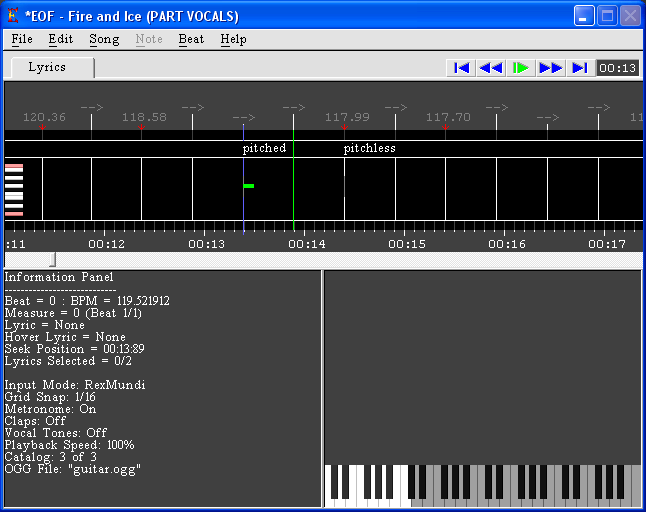
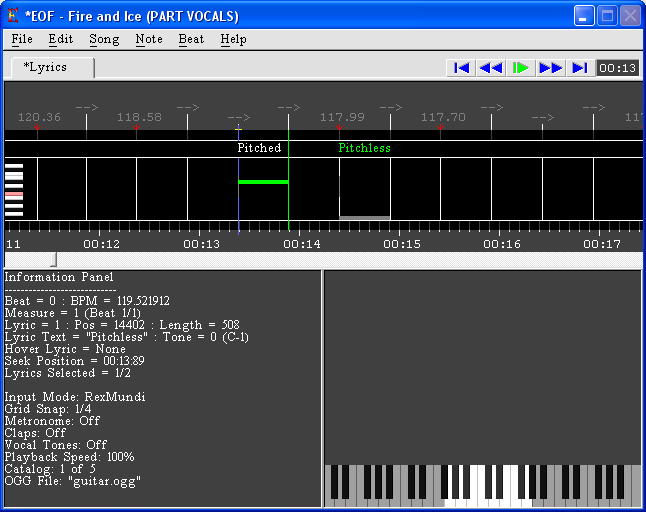
Lots of updates to the vocal charting tutorial.  This covers new lyric manipulation features in EOF and the recently implemented Import Lyric functionality.

diff --git a/bin/vocaltutorial/index.htm b/bin/vocaltutorial/index.htm
@@ -11,7 +11,7 @@ p {text-indent: 1cm}
 <center>A song editor for "Frets On Fire"</center><br>
 
 <h1><a name="tutorial">Vocal Tutorial</a></h1>
-[ <a href="index.htm#intro">Introduction</a> ] [ <a href="index.htm#addinglyrics">Manipulating lyrics</a> ] [ <a href="index.htm#testing1">Testing and editing lyric pitches</a> ] [ <a href="index.htm#refocus">Using the full range of pitches</a> ] [ <a href="index.htm#intermediate">Intermediate vocal charting topics</a> ] [ <a href="index.htm#testing2">Testing</a> ] [ <a href="index.htm#advanced">Advanced topics</a> ]<br><br>
+[ <a href="index.htm#intro">Introduction</a> ] [ <a href="index.htm#addinglyrics">Manipulating lyrics</a> ] [ <a href="index.htm#testing1">Testing and editing lyric pitches</a> ] [ <a href="index.htm#refocus">Using the full range of pitches</a> ] [ <a href="index.htm#intermediate">Intermediate vocal charting topics</a> ] [ <a href="index.htm#import">Lyric import</a> ] [ <a href="index.htm#testing2">Testing</a> ] [ <a href="index.htm#advanced">Advanced topics</a> ]<br><br>
 
 <h1><a name="intro">Introduction</a></h1>
 Charting vocals in EOF begins like any other chart work, you can create a new chart or open an existing chart.  Change to PART VOCALS:<br>
@@ -27,19 +27,19 @@ Vocal notes are placed similarly to instrument notes:  You move the mouse's vert
 
 You can either type the lyric in now or just click OK (or hit Enter) to leave it blank, but if you forget to enter it later, that particular pitch might not work correctly in FoF when you play the chart.  Just as with notes in instrument tracks, the Grid Snap feature allows you to place your lyrics on partial measure intervals.  As always, beat syncing the chart (**LINK TO MAIN CHARTING TUTORIAL REGARDING BEAT SYNCING) before placing lyrics is strongly recommended, as the Grid Snap feature can then be used with a great deal of accuracy.  If you haven't beat synced the chart, using the Grid Snap will be of limited value, except for setting how much the selected lyric's duration changes when you use the scroll wheel or the [ and ] keys.<br><br>
 
-A word of caution:  If you move beat markers while placing lyrics, be aware that the "Auto Adjust" feature will move the positions of lyrics for the affected beats, which EOF's behavior by design.  This is another reason to beat sync your chart before placing lyrics and notes, but if you have "Auto Adjust" enabled and want to prevent the notes and lyrics that fall within the beats affected when clicking and dragging a beat marker, hold the SHIFT key before clicking and dragging it.  If you do NOT have "Auto Adjust" enabled, holding SHIFT when clicking and dragging a beat marker will cause the notes to adjust, so make sure you know whether "Auto Adjust" is enabled by checking File>Preferences.<br><br>
+A word of caution:  If you move beat markers while placing lyrics, be aware that the "Auto Adjust" feature will move the positions of lyrics for the affected beats, which is EOF's behavior by design.  This is another reason to beat sync your chart before placing lyrics and notes, but if you have "Auto Adjust" enabled and want to prevent the notes and lyrics that fall within the beats from being affected when clicking and dragging a beat marker, hold the SHIFT key before clicking and dragging it.  If you do NOT have "Auto Adjust" enabled, holding SHIFT when clicking and dragging a beat marker will cause the notes to adjust, so make sure you know whether "Auto Adjust" is enabled by checking File>Preferences.<br><br>
 
 A lyric can be created without defining its pitch by positioning the mouse above the top-most key of the Mini Piano, such as in the lyric display area at the top of the piano roll area, when you place the lyric.  If you place a lyric here, EOF will skip saving a pitch for the lyric and just ask you to specify the lyric text.  The resulting lyric will have the text but no pitch, and during save, the MIDI will be created to reflect this:
 <center><IMG SRC="voximage5.png" ALT="screen" BORDER=0 HSPACE=0 VSPACE=3><br></center>
-If you define a lyric without a pitch, you can set the pitch later (See the <a href="index.htm#testing1">"Testing and editing lyric pitches"</a> section below).  You can play a chart in FoF with one or more pitch-less lyrics, and they should show work as scrolling lyrics, but they may or may not be scored correctly when the vocal track is being played.  If you want to change a lyric's text after it has been defined, you can select the lyric and either press the L key or use the "Edit Lyric" function in the Note menu.  As more lyrics are placed, you may find that it becomes difficult to work in the default zoom level of 1/10, as some lyrics are feasibly going to be long enough to appear to overlap:<br>
+If you define a lyric without a pitch, EOF will display the lyric's position in gray instead of green or red, and you can set the pitch later (See the <a href="index.htm#testing1">"Testing and editing lyric pitches"</a> section below).  You can play a chart in FoF with one or more pitch-less lyrics, and they should show work as scrolling lyrics, but they may or may not be scored correctly when the vocal track is being played.  If you want to change a lyric's text after it has been defined, you can select the lyric and either press the L key or use the "Edit Lyric" function in the Note menu.  As more lyrics are placed, you may find that it becomes difficult to work in the default zoom level of 1/10, as some lyrics are feasibly going to be long enough to appear to overlap, especially if you are using EOF's default window size of 640x480:<br>
 <center><IMG SRC="voximage3.png" ALT="screen" BORDER=0 HSPACE=0 VSPACE=3><bR><br></center>
 
-To remedy this, simply zoom in by either pressing the + key on the numpad, or by opening the Edit menu, selecting Zoom and selecting a zoom level.  The - key on the numpad can be used to zoom back out:<br>
+To remedy this, simply increase EOF's window size by opening the File menu, selecting Display, selecting a larger window size and clicking OK.  Or if you prefer, you can zoom in on the chart by either pressing the + key on the numpad, or by opening the Edit menu, selecting Zoom and selecting a zoom level.  The - key on the numpad can be used to zoom back out:<br>
 <center><IMG SRC="voximage4.png" ALT="screen" BORDER=0 HSPACE=0 VSPACE=3><bR><br></center>
 
 Even if you use Grid Snap to place lyrics on a beat synced chart, you need to check to see if minor timing changes as necessary.  As such, you can use the Clap feature during playback in PART VOCALS to see if the timing is accurate.  If adjustment is needed, simply click and drag one or more notes left or right.  EOF will preserve the lyrics' pitches when you move them.  Multiple lyrics can be selected at a time (and subsequently moved) by using using the same CTRL+click, SHIFT+click, etc. methods available when charting instrument tracks.<br><br>
 
-Besides ensuring that the lyric pitches and start times are accurate, it's also important to ensure that they are the correct length.  FoF will expect the player to sing a lyric's pitch for as long as the chart specifies in order to receive a perfect score for the lyric.  A selected lyric's duration can be modified just the same as with instrument notes:  With the scroll wheel or [ and ] keys.  Changing the Grid Snap setting to smaller fractions (such as 1/48) will allow you to adjust the lyric durations in smaller increments.  Harmonix documentation recommends that consonants at the beginning or end of a lyric not be included in the lyric's duration.  For example, for the word "changes", you might have the pitch for the first syllable ("chan") start just after the "ch" sound to begin with the long A vowel sound, and you might ensure that the pitch duration for the second syllable ("ges") ends just before the S sound is enunciated.  This is to make the scoring more accurate for the way people naturally sing, where a word's beginning and ending consonant sounds aren't always sung with a particular pitch in the way that vowel sounds are.  Harmonix notes that some exceptions may apply, such as if the consonant is to be sung loud and with a long duration.  Just make sure to play test the vocal chart to make sure the scoring seems reasonable.<br><br>
+Besides ensuring that the lyric pitches and start times are accurate, it's also important to ensure that they are the correct length.  FoF will expect the player to sing a lyric's pitch for as long as the chart specifies in order to receive a perfect score for the lyric.  A selected lyric's duration can be modified just the same as with instrument notes:  With the scroll wheel or [ and ] keys.  Changing the Grid Snap setting to smaller fractions (such as 1/48) will allow you to adjust the lyric durations in smaller beat based-increments.  If you prefer to have more independent control over a lyric's duration, you can turn Grid Snap off.  When Grid Snap is off, using the scroll wheel or [ and ] keys changes the duration in increments of 100ms.  If you hold the CTRL key down while changing the duration this way, the duration is instead changed in increments of 10ms, allowing for very high resolution adjustments.  Harmonix documentation recommends that consonants at the beginning or end of a lyric not be included in the lyric's duration.  For example, for the word "changes", you might have the pitch for the first syllable ("chan") start just after the "ch" sound to begin with the long A vowel sound, and you might ensure that the pitch duration for the second syllable ("ges") ends just before the S sound is enunciated.  This is to make the scoring more accurate for the way people naturally sing, where a word's beginning and ending consonant sounds aren't always sung with a particular pitch in the way that vowel sounds are.  Harmonix notes that some exceptions may apply, such as if the consonant is to be sung loud and with a long duration.  Just make sure to play test the vocal chart to make sure the scoring seems reasonable.<br><br>
 
 When lyrics repeat (typical of a song's chorus), you can save yourself some time by copying a selection of lyrics and pasting them elsewhere in the chart.  As always, be sure to double check the pasted lyrics to see if any corrections need to be made.  See the section <a href="index.htm#testing1">"Testing and editing lyric pitches"</a> below for more information.  One thing to note is that EOF maintains a separate clipboard for lyrics than the one it uses for instrument notes.  So while you can copy lyrics from one EOF window to PART VOCALS in another EOF window, you cannot copy lyrics to an instrument track such as PART GUITAR.  If you would like to keep several selections of lyrics available for pasting, you can use the Fret Catalog to store lyrics similarly to how you can use it to store selections of notes from instrument tracks.  To add lyrics to the Fret Catalog, select some lyrics (such as the first line of the song's chorus), open the Song Menu, select Catalog and select Add.  You can toggle on or off the showing of the Fret Catalog on top of the Information Panel by either pressing the Q key, or by opening the Song menu, selecting Catalog and selecting Show.  The Previous/Next controls in the same menu, the previous/next buttons in the fret catalog or the W and E keys will allow you to change the active catalog entry if you have more than one catalog entry defined.  You can play the currently displayed catalog entry by clicking the play button in the Catalog Entry panel or by pressing SHIFT+Spacebar.  You can paste the lyrics from the current catalog entry to the current seek position in the chart by opening the Edit menu, selecting Paste From and selecting Catalog.<br><br>
 
@@ -50,7 +50,14 @@ So now that you've placed some lyric notes, you may be wondering how to easily t
 
 When Vocal Tones are enabled, there are multiple ways you can play back the tones of the defined lyrics.  First, you can simply left click on the lyric to hear its tone.  If the lyric has no defined pitch, or if Vocal Tones are not enabled, you will not hear a tone when you click on the lyric.  Second, you can press Play or Spacebar to play back the chart, and the tones will sound during playback each time a lyric with a pitch is reached.  If you choose to do so, you can even use Vocal Tones in combination with the metronome and/or note clapping.<br><br>
 
-To change a lyric's pitch without deleting and redefining it, select one or more lyrics and use the Up or Down arrow keys to move the lyric(s) up or down one note at a time.  If you hold the CTRL button while pressing Up or Down, the selected Lyric(s) will move up or down by an entire octave (12 notes) instead of just one note.  Or, you can move the mouse over the lyric until it highlights GREEN (this is referred to as hovering over the lyric), moving the mouse up or down to the desired pitch and placing the note over the existing lyric.  The original lyric text will be kept, but the new pitch specified will be saved.  If Vocal Tones are enabled, EOF will play the new pitch of the lyric each time the pitch is changed.  If you have altered the pitch of multiple notes at once, the tone will sound for the last lyric that was clicked on instead of playing the tones for all selected lyrics at once.<br><br>
+You can change a lyric's pitch without deleting and redefining its text with these methods:<br>
+<ul>
+<li>Pressing the Up or Down arrow keys to move the selected lyric(s) up or down one note at a time.
+<li>Hold the CTRL button and press the Up or Down arrow keys to move the selected Lyric(s) up or down one octave (12 notes) at a time.
+<li>Move the mouse left/right over the piano roll area until it crosses over the lyric, which will highlight in GREEN (this is referred to as hovering over the lyric).  Move the mouse up or down to the desired pitch and place the note over the existing lyric.  The original lyric text will be kept, but the new pitch specified will be saved.  If you use this method to place the same pitch that the lyric already has, EOF will instead remove the pitch, leaving the lyric text.  In order to show that the lyric still exists but is missing a pitch, EOF will draw a gray bar over the bottom of the piano roll to show its start and stop position.
+<li>Select one lyric, hold the CTRL button and left click a key on the full piano.  The pitch will change to the pitch of the key you played.
+</ul>
+If Vocal Tones are enabled, EOF will play the new pitch of the lyric each time the pitch is changed.  If you have altered the pitch of multiple notes at once, the tone will sound for the last lyric that was clicked on instead of playing the tones for all selected lyrics at once.<br><br>
 
 A new playback feature in EOF allows you to select a group of notes, press and hold the S key and press the Play button or Spacebar.  This will cause playback for just the selected notes and will automatically rewind the chart to the first of the selected notes.  This method of playback is similar to the playback of a catalog entry, but adds convenience in that you don't have to add a set of notes to the Fret Catalog just to be able to play them back multiple times during testing.  You can also use this playback feature to play back a selection of lyrics with Vocal Tones, which is an ideal way to check multiple pitches, such as when listening to some or all of a line of lyrics repeatedly to ensure all the pitches are accurate.  Likewise, Vocal Tones will play back for a fret catalog entry.  Use the play selection and play catalog entry features to your advantage to create an excellent vocal chart.<br><br>
 
@@ -95,11 +102,44 @@ Regarding partial words, the correct way to chart vocals for a word that has mul
 
 Partial words lyrics ending in a hyphen will not display in-game with a hyphen.  For a partial word lyric where it is intended for the hyphen to be visible, the partial word lyric should end in an equal sign instead.  For example:  The lyrics "X-" "ray" may be displayed in-game as "Xray" while the lyrics "X=" "ray" should be displayed as "X-ray".  Other than having the hyphen made visible, the equal sign's behavior regarding vocal charting is the exact same as that of the hyphen.<br><br>
 
-When a single syllable is sung and the singer changes pitch while still singing the same syllable of the same word, it is called a pitch shift.  In this case, you define the shift with the lyric text of "+" (without quote marks) and the appropriate pitch.  Generally, the lyric preceding the shift should extend all the way up to where the + lyric is placed.  For example, if a chart has the player sing "I" in the pitch of C4 and then (without stopping to change syllables) changes the pitch to E4, you would define the first lyric as "I" with pitch C4, and then when the singer's voice has finished shifting up to the higher note, define the second lyric as "+" with pitch E4.  Make sure not to use a hyphen on the end of the lyric that precedes the "+" lyric, it is implied that it pertains to the same syllable, and the lyric text should be automatically displayed correctly in-game.  If there is a partial word lyric that continues the current word AFTER a pitch shift, put a hyphen at the end of the "+" lyric.  So the lyric "away", if it contained a pitch shift on the first syllable, should be charted as three separate lyrics:  "a", "+-" and "way".<br><br>
+When a single syllable is sung and the singer changes pitch while still singing the same syllable of the same word, it is called a pitch shift.  In this case, you define the shift with the lyric text of "+" (without quote marks) and the appropriate pitch.  Generally, the lyric preceding the shift should extend all the way up to where the + lyric is placed.  For example, if a chart has the player sing "I" in the pitch of C4 and then (without stopping to change syllables) changes the pitch to E4, you would define the first lyric as "I" with pitch C4, and then when the singer's voice has finished shifting up to the higher note, define the second lyric as "+" with pitch E4.  Make sure not to use a hyphen on the end of the lyric that precedes the "+" lyric, it is implied that it pertains to the same syllable, and the lyric text should be automatically displayed correctly in-game.  If there is a partial word lyric that continues the current word AFTER a pitch shift, put a hyphen at the end of the "+" lyric.  So the lyric "away", if it contained a pitch shift on the first syllable, should be charted as three separate lyrics:  "a", "+-" and "way".  When you mark a lyric phrase, EOF will display the lyric phrase's preview with the correct spacing logic so you can determine if you need to add any hyphens:<br>
+<center><IMG SRC="voximage9.png" ALT="screen" BORDER=0 HSPACE=0 VSPACE=3><br></center>
 
 A freestyle lyric is one that contains a pound sign (#) or a circumflex (^) on the end.  While it is generally considered normal to still define a pitch for a freestyle lyric, it might not be necessary to do so for it to work as intended in FoF.  When lyrics are freestyle, the game only requires the user to speak/sing at the correct time and does not score based on the pitch that is sung.  This is typical for parts of a song that are screaming, talking or rapping.  One catch is that for partial words that are freestyle, the hyphen should come before the freestyle character.  For example, you could chart the lyrics "Sa-#" "bo-#" "tage#" and the player can sing the lyrics in any pitch.  The game should score it as being accurate as long as the syllables were spoken at the right times for the right durations.  "^" is used in the exact same way as "#", except that Harmonix indicates this is used to create a freestyle lyric that has more relaxed scoring, making it easier to score it correctly in-game.  It's not known whether FoF makes a distinction between the two different freestyle characters.<br><br>
 
 If your chart has a Big Rock Ending (often referred to as BRE) in the instrument track(s), then the behavior of the game (according to Harmonix) stops scoring the vocal track when the Big Rock Ending is reached.  I'm uncertain if FoF follows this behavior, but if lyrics that show up in the middle of a big rock ending don't appear or don't get scored when you play the chart, this is probably why.<br><br>
+
+
+
+<h1><a name="import">Lyric import</a></h1>
+If you want to import lyrics into the chart that is currently open, you can access the newly-integrated lyric import feature by opening the File menu and selecting "Import Lyrics".  This will load lyrics from the specified file, replacing the lyrics that are defined in PART VOCALS.  If the file you select only has one set of lyrics (ie. Script format), the import will complete without any further interaction:
+<center><IMG SRC="voximage10.png" ALT="screen" BORDER=0 HSPACE=0 VSPACE=3><br></center>
+
+In the above example, I imported a VL file.  This format contains no pitch information, so the lyric positions are indicated in gray.  Imports for much more complicated files are supported, even when they contain multiple sets of lyrics.  Take one of the MIDIs from The Beatles: Rock Band for example:
+<center><IMG SRC="voximage11.png" ALT="screen" BORDER=0 HSPACE=0 VSPACE=3><br></center>
+
+EOF will import lyrics from the regular vocal track (PART VOCALS) automatically, but using "Import Lyrics" shows that there are several harmony vocal tracks defined in the MIDI, each of them able to be different than the others:
+<center><IMG SRC="voximage12.png" ALT="screen" BORDER=0 HSPACE=0 VSPACE=3><br></center>
+
+The number of lyrics reported for each track in the "Select track to import" window is an estimate.  There is additional cleanup logic that is performed during the actual import process, which may cause the number of lyrics imported to be slightly different.  Here's what the second harmony track "PART HARM2" looks like:
+<center><IMG SRC="voximage13.png" ALT="screen" BORDER=0 HSPACE=0 VSPACE=3><br></center>
+
+Notice that the harmony track doesn't have the same number of lyrics.  If you try to import a file that does not contain a support lyric format, you will receive this message:<br>
+<center><IMG SRC="voximage14.png" ALT="screen" BORDER=0 HSPACE=0 VSPACE=3><br></center>
+
+and the import is canceled.  As of this revision of the vocal charting tutorial, The following import formats are supported:<br>
+<ul>
+<li>Frets on Fire Script (script.txt)
+<li>VividLyrics
+<li>Rock Band / Guitar Hero MIDI
+<li>UltraStar
+<li>LRC
+<li>Extended LRC
+<li>KAR
+<li>Pitched Lyrics (will prompt for a Vocal Rhythm MIDI file)
+<li>Soft Karaoke
+</ul>
+For details about the different lyric formats supported, please consult the FoFLyricConverter readme.txt file (See the <a href="index.htm#advanced">"Advanced topics"</a> section below) for more details.<br><br>
 
 
 
@@ -113,11 +153,15 @@ Besides testing in FoFiX, you might even consider testing your vocal charts in t
 
 
 <h1><a name="advanced">Advanced topics</a></h1>
-If you are already familiar with charting in another lyric editor, such as VividLyrics editor or a song editor for the UltraStar series of games, you might prefer to do some of your vocal charting in that program, and then bring the chart into EOF to polish it up for final release.  The FoFLyricConverter is a program being developed separately from EOF, and currently there are plans to integrate the two projects.  Until the integration is complete, you can use FoFLyricConverter as command line program having rather large list of command parameters.  The benefit is that you can convert many different formats of lyrics into the appropriate MIDI format that can be imported into EOF.  You could also convert your vocal chart's lyrics into another format to share with another community (such as the UltraStar community for sharing and receiving feedback) or for testing.  To find out more about this program, visit the program's impromptu project site on the FoF-FF forum:<br>
-<a href=http://www.fretsonfire.net/forums/viewtopic.php?f=11&t=31765>http://www.fretsonfire.net/forums/viewtopic.php?f=11&t=31765</a><br><br>
+If you are already familiar with charting in another lyric editor, such as VividLyrics editor or a song editor for the UltraStar series of games, you might prefer to do some of your vocal charting in that program, and then bring the chart into EOF to polish it up for final release.  The FoFLyricConverter is a program being developed separately from EOF.  Work has begun to integrate the two projects, providing EOF with support for importing many types of lyric formats.  Until integration matures, you can use FoFLyricConverter as command line program to have the most granular control over lyric conversions, using a large list of parameters.  The benefit is that you can influence filtered characters, hyphens, lyric spacing and even the timings of the lyrics as needed before merging them with your EOF chart.  You could also convert your vocal chart's lyrics into another format to share with another community (such as the UltraStar community for sharing and receiving feedback) or for testing.  To find out more about this program, visit the program's impromptu project site on the FoF-FF forum:<br>
+<a href=http://www.fretsonfire.net/forums/viewtopic.php?f=11&t=31765>http://www.fretsonfire.net/forums/viewtopic.php?f=11&t=31765</a><br>
+The instructions for this program are available in the file "readme.txt", which is included with EOF's source code (in the \foflc folder) and with the program in the FoF-FF thread above.<br><br>
 
-It is my personal experience that if you don't beat sync the chart ahead of time, it's easier to time vocals in a playback driven-editor such as the Vivid Lyric editor.  Otherwise, it's definitely easier to use EOF's grid snap functionality, as lyrics usually are added to composed music so that they line up with beats and stay in sync with the music.  Your own mileage may vary.<br><br>
+It is my personal experience that if you don't beat sync the chart ahead of time, it's easier to time vocals in a playback driven-editor such as the Vivid Lyric editor.  Otherwise, it's definitely easier to use EOF's grid snap functionality, as lyrics usually are added to composed music so that they line up with beats and stay in sync with the music.  Your own experience and preferences may vary.<br><br>
 
-On a final note, I recommend that all chartists that are interested in getting into vocal charting to learn how to read sheet music.  With just a little bit of learning and practice, you will gain the ability to use available sheet music scans, etc. to obtain accurate vocal pitches for a chart.  While published sheet music is often of higher quality than fan-made works, I have found instances where there were errors in the printed material (such as an incorrect key signature) that made the sheet music completely inaccurate.  Whether you find the vocal pitches on your own or by referencing musical composition, remember to test the chart with vocal tones to be sure that the pitches are correct.
+On a final note, I recommend that all chartists that are interested in getting into vocal charting learn how to read sheet music.  With just a little bit of learning and practice, you will gain the ability to use available sheet music scans, etc. to obtain accurate vocal pitches for a chart.  By default, EOF will display the black piano keys as sharp notes.  However, if you are reading sheet music, there's a good chance that it uses flat notes instead (such as a key signature that uses flats instead of sharps).  As an aid, EOF allows you to change the black piano keys to display as flat notes by opening the Note menu and toggling the "Display semitones as Flat" option.  After this, a note that would have displayed as "D#4" before would display as "Eb4":<br>
+<center><IMG SRC="voximage15.png" ALT="screen" BORDER=0 HSPACE=0 VSPACE=3><br></center>
+
+"D#4" and "Eb4" are different names that refer to the exact same note.  While published sheet music is often of higher quality than fan-made works, I have found instances where there were errors in the printed material (such as an incorrect key signature) that made the sheet music completely inaccurate.  Whether you find the vocal pitches on your own or by referencing musical composition, remember to test the chart with vocal tones to be sure that the pitches are correct.
 </BODY>
 </HTML>
